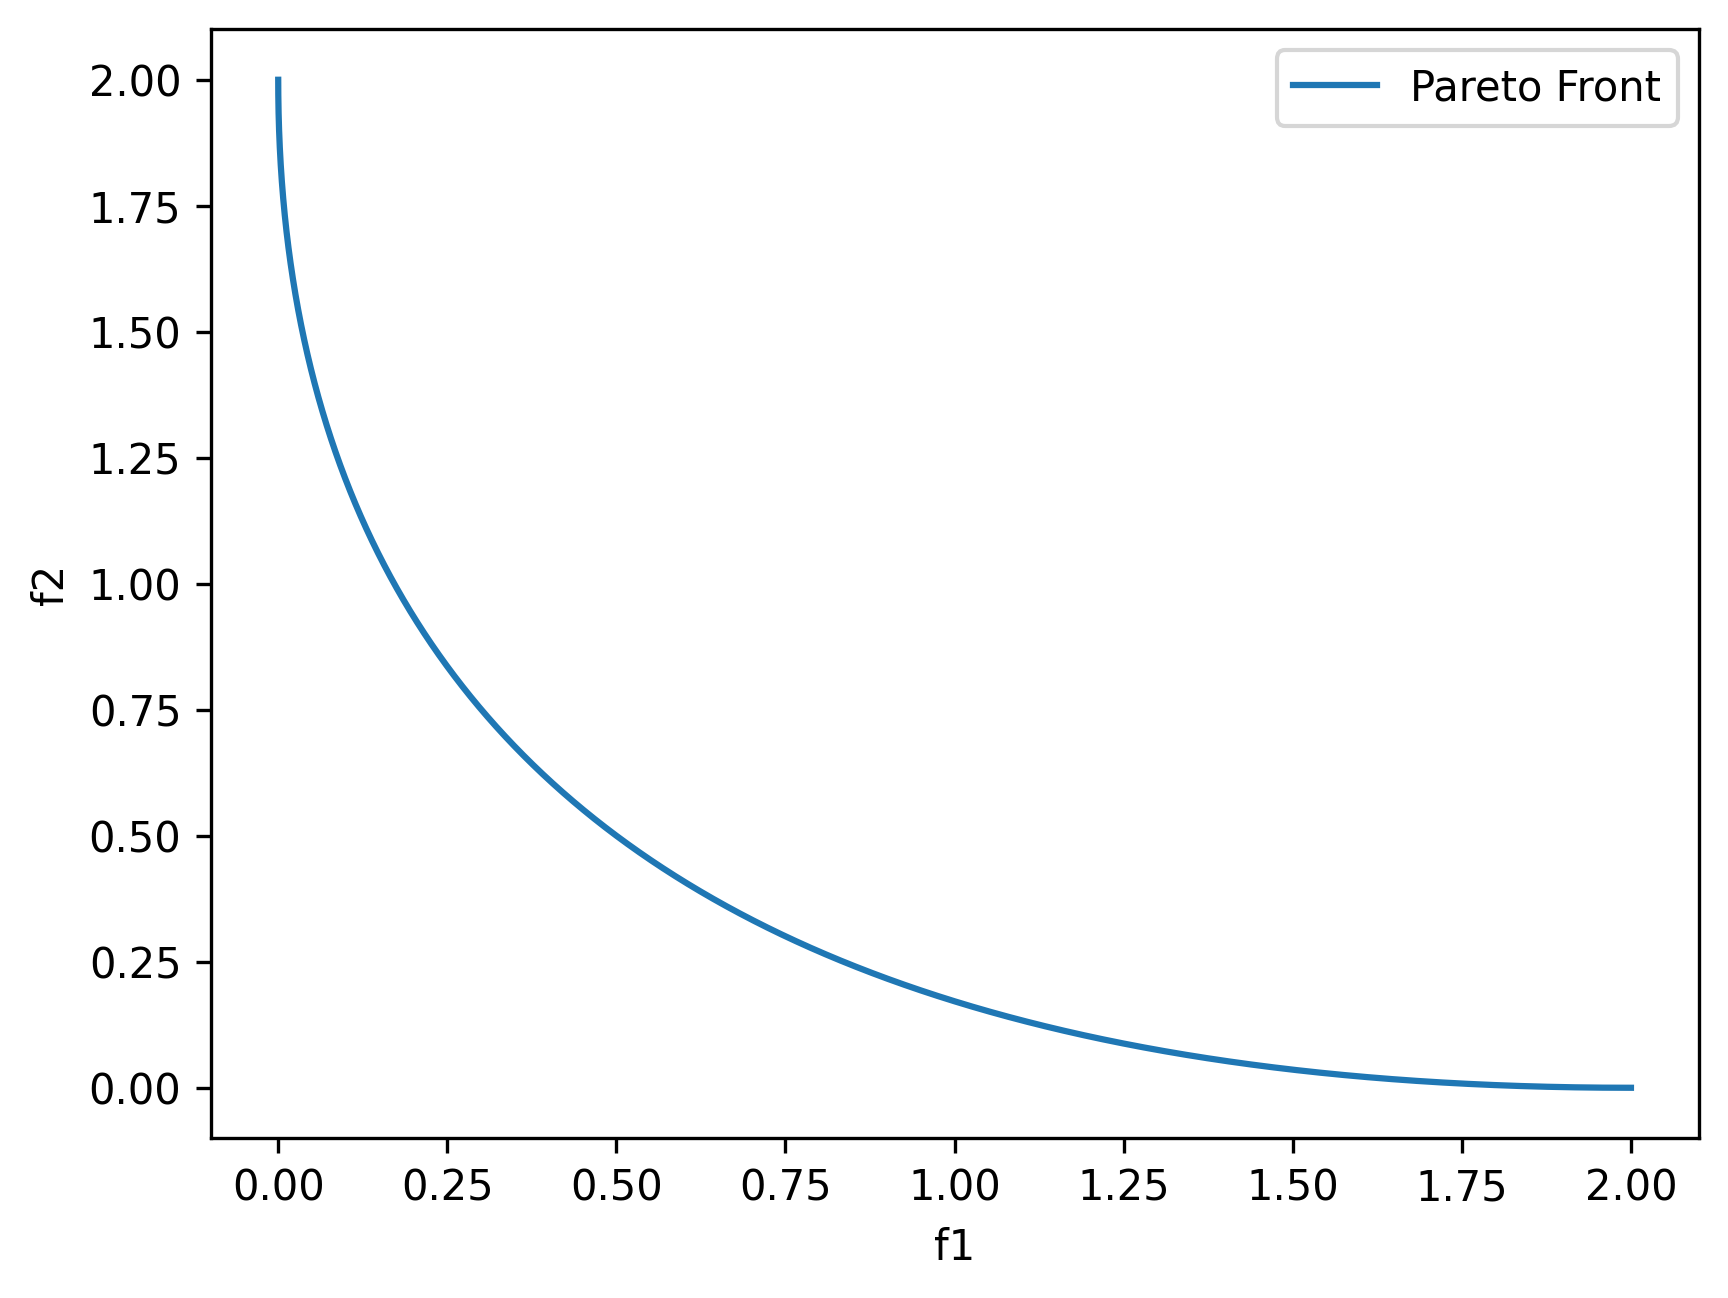
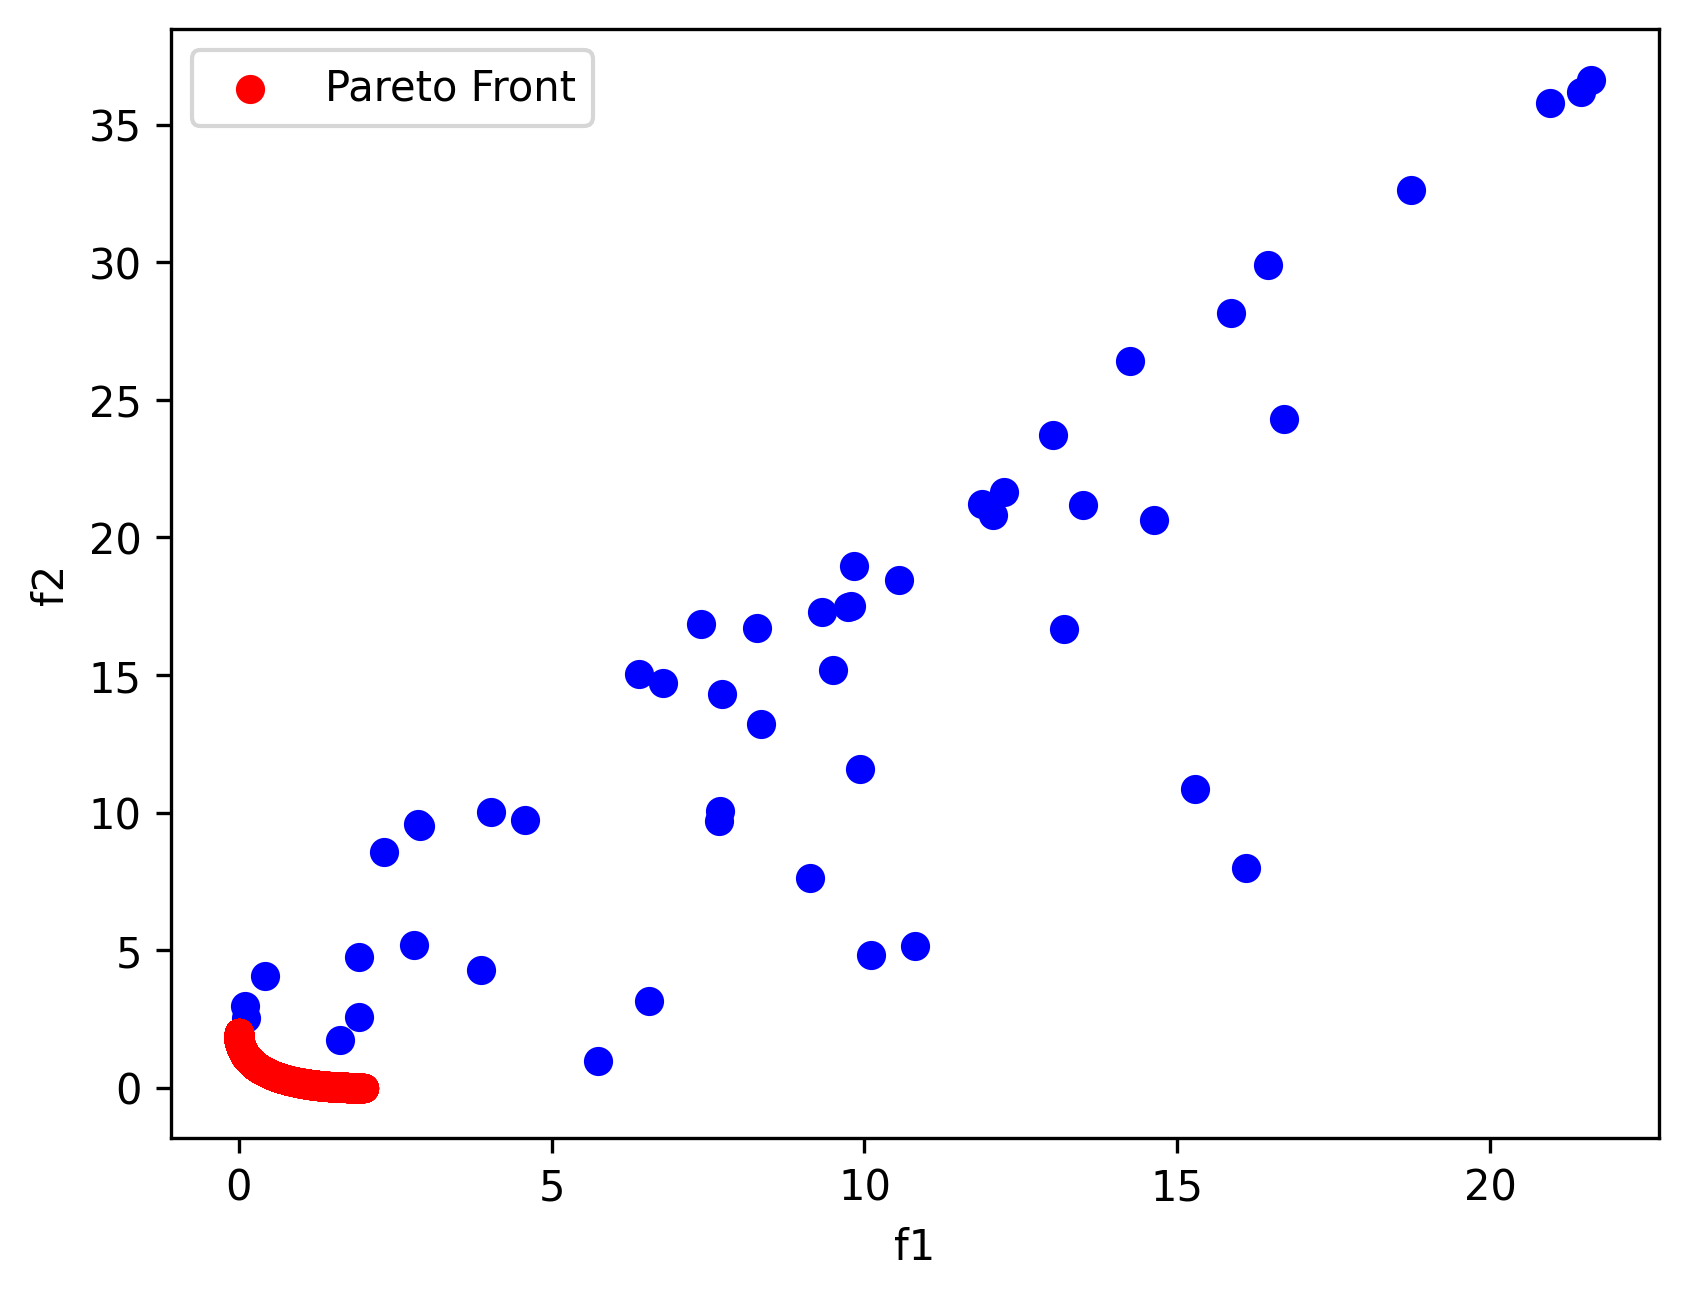
Fixed our Pareto Front Representation

diff --git a/multi_objective.py b/multi_objective.py
@@ -135,11 +135,24 @@ for i in range(len(x_stars)):
 save_figs = True
 save_path = 'Multiobjective_optimization\\figures\\'
 
-plt.figure()
+# generate 50 random (x,y) points and get their f1 and f2 values.
+# make sure they aren't on the Pareto Front
+
+x_out = np.random.uniform(the_bounds[0][0]-1,the_bounds[0][1]-1,50)
+y_out = np.random.uniform(the_bounds[1][0]-1,the_bounds[1][1]+1,50)
+
+x_dominated = f1([x_out,y_out])
+y_dominated = f2([x_out,y_out])
+
+fig = plt.figure()
+# ax = fig.add_subplot(1,1,1)
 plt.ion()
-plt.plot(X_pareto,Y_pareto, label='Pareto Front')
+plt.scatter(x_dominated,y_dominated,color='blue')
+plt.scatter(X_pareto,Y_pareto, color = 'red',label='Pareto Front')
 plt.xlabel('f1')
 plt.ylabel('f2')
+# make the axis log
+# ax.set_yscale('log')
 plt.legend()
 if(save_figs):
     if(f2.__name__ == 'Goldstein_price_function'):
